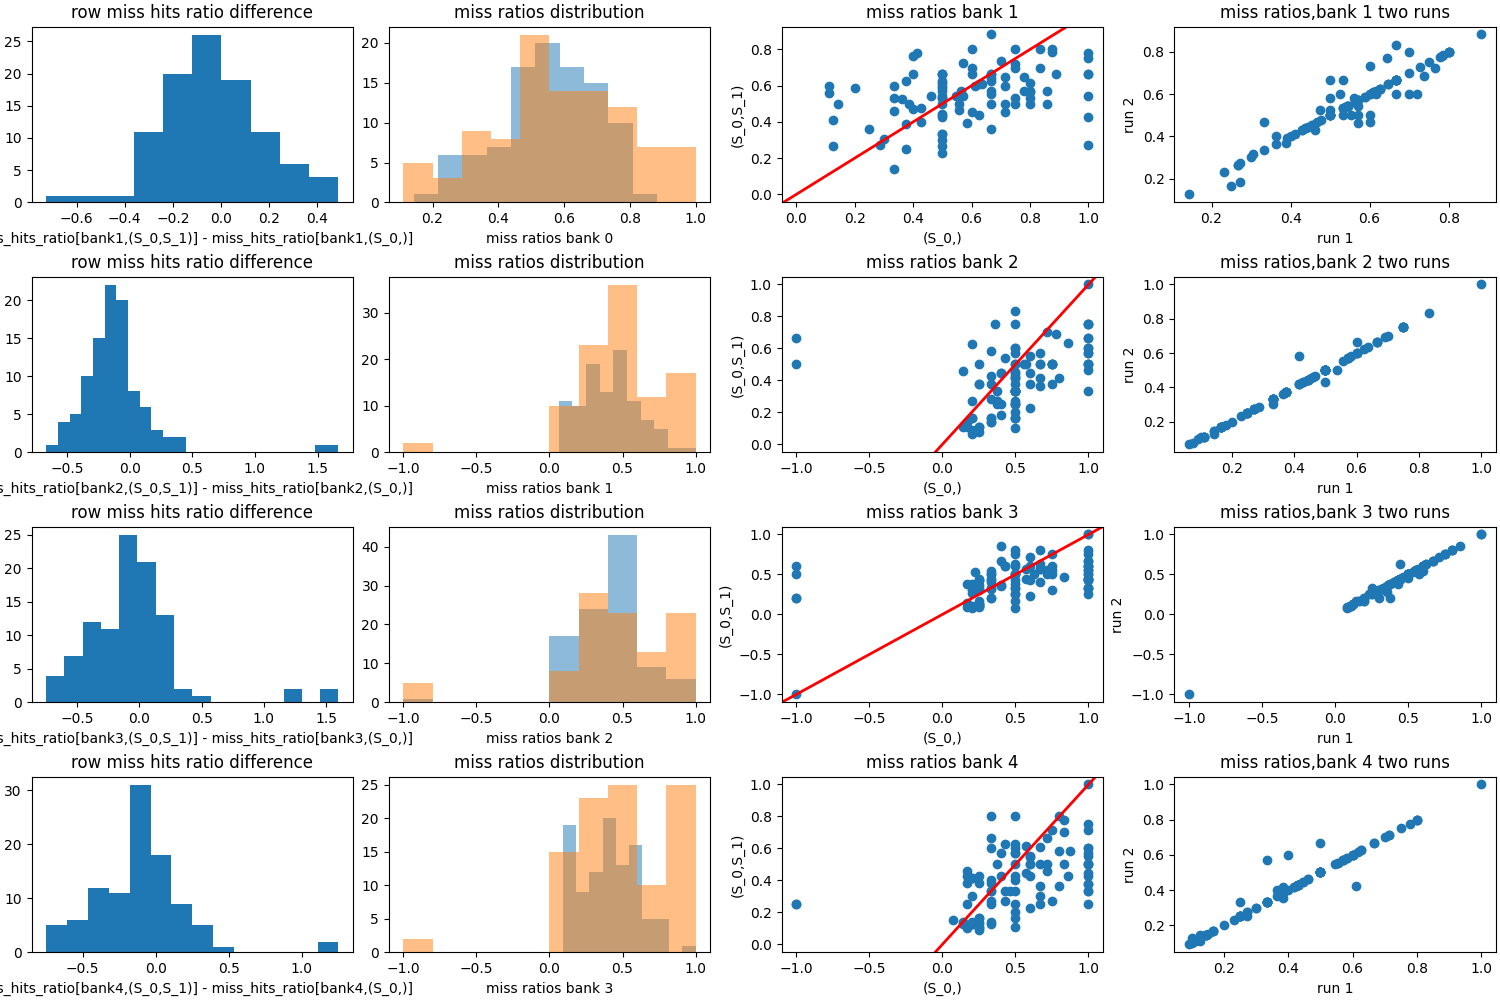
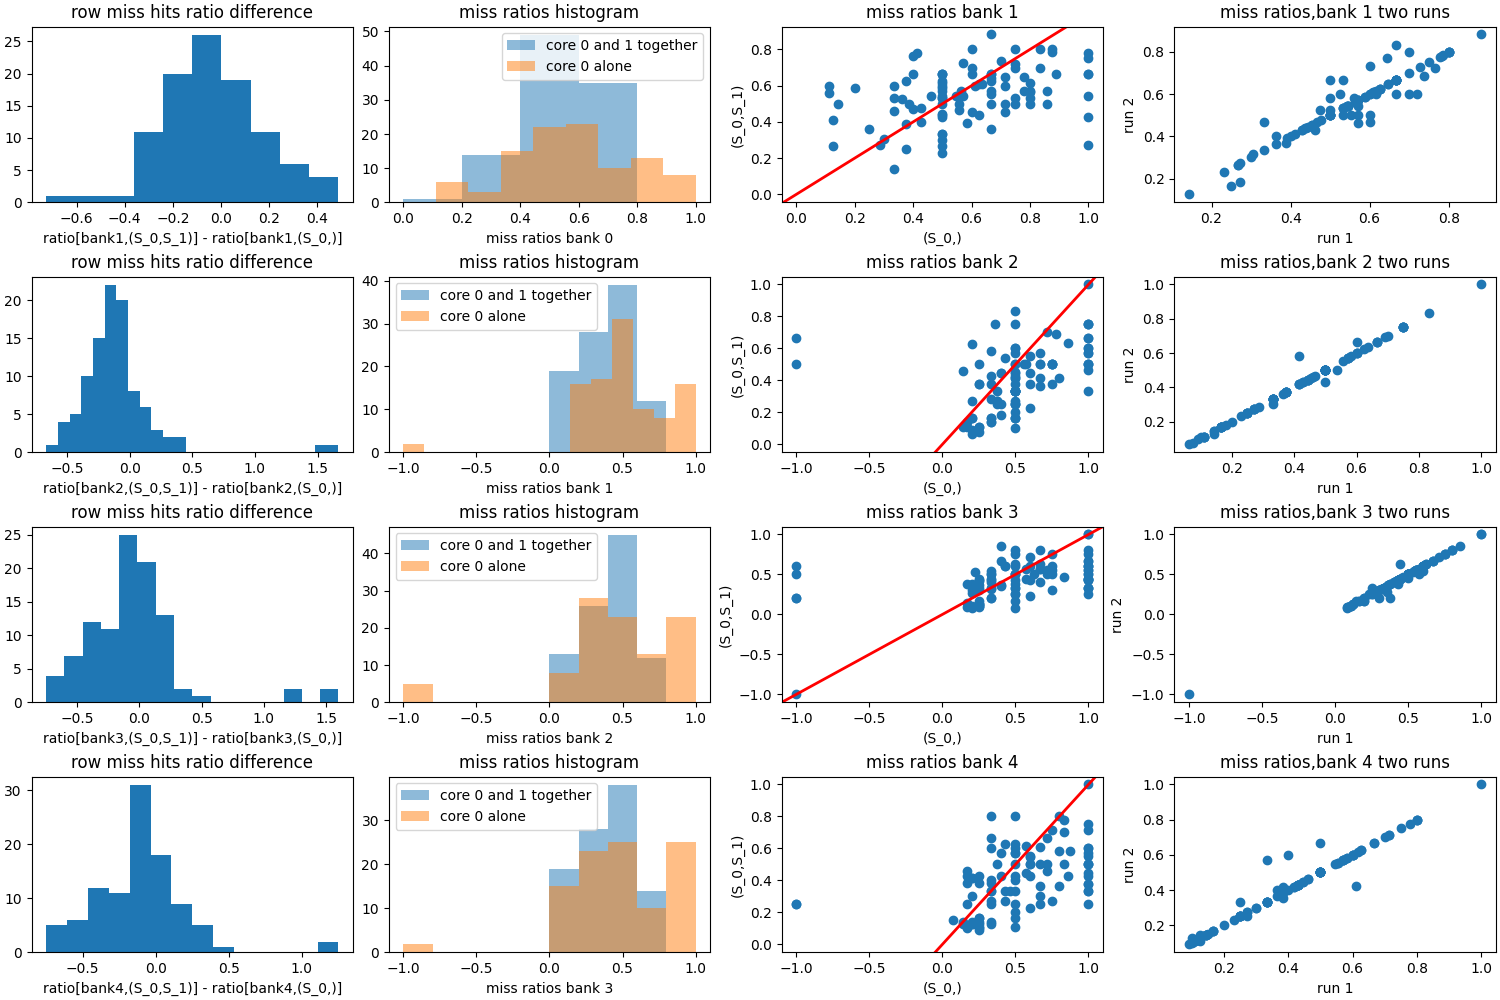
modif

diff --git a/test_2.py b/test_2.py
@@ -34,10 +34,11 @@ if __name__=="__main__":
         axs[j,0].set_xlabel(f"ratio[bank{j+1},(S_0,S_1)] - ratio[bank{j+1},(S_0,)]")
         axs[j,0].set_title("row miss hits ratio difference")
 
-        axs[j,1].hist(content["miss_ratios"][:,j], label="core 0 and 1 together", alpha=.5)
-        axs[j,1].hist(content["miss_ratios_core0"][:,j], label="core 0 alone", alpha=.5)
+        axs[j,1].hist(content["miss_ratios"][:,j], label="core 0 and 1 together", alpha=.5, bins=np.arange(0,1,0.2))
+        axs[j,1].hist(content["miss_ratios_core0"][:,j], label="core 0 alone", alpha=.5, bins= "auto")
         axs[j,1].set_xlabel(f"miss ratios bank {j}")
-        axs[j,1].set_title(f"miss ratios distribution")
+        axs[j,1].set_title(f"miss ratios histogram")
+        axs[j,1].legend()
 
 
         axs[j,2].scatter(content["miss_ratios_core0"][:,j],  content["miss_ratios"][:,j])

diff --git a/exploration/random/func.py b/exploration/random/func.py
@@ -51,8 +51,8 @@ class Env:
                 "perf_core1": program1.ratios,
                 "time_core0_together":program.compl_time_core0,
                 "time_core1_together":program.compl_time_core1,
-                "time_core1_alone":program1.compl_time_core1,
                 "time_core0_alone":program0.compl_time_core0,
+                "time_core1_alone":program1.compl_time_core1,
                 }
     def _make_program(self):
         ddr = DDRMemory()
